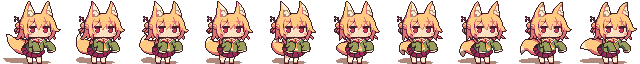
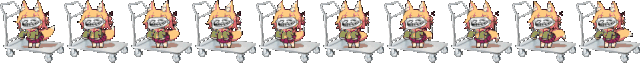
aa

diff --git a/source/main.c b/source/main.c
@@ -9,32 +9,28 @@
 #include "main.h"
 
 int HWButton = -1;
-struct shiggyData shiggy;
+struct ShiggyData shiggy;
 int frameCount = 10;
 int frameIndex = 0;
 signed int timerSeconds = -3;
 int theme = 1;
 AESNDPB* shigCompleteVoice;
 int timer = 0;
+unsigned int skinNum = 0;
 
 /**
  * handler for controls so my code is less shit lmao
  */
 void buttonHandler() {
     if ((WPAD_ButtonsHeld(0) & WPAD_BUTTON_A) || (PAD_ButtonsHeld(0) & PAD_BUTTON_A)) {
-        if (shiggy.hyperTimer == 0) shiggy.hyperTimer = 10;
+        if (shiggy.hyperTimer == 0) shiggy.hyperTimer = 9;
     }
     if ((WPAD_ButtonsDown(0)) || (PAD_ButtonsDown(0))) {
-        if ((WPAD_ButtonsDown(0) & WPAD_BUTTON_A) || (PAD_ButtonsDown(0) & PAD_BUTTON_A)) {
-            if (GRRLIB_PtInRect(536, 384, 64, 64, shiggy.x, shiggy.y)) {
-                ++theme;
-                theme %= 2;
-            }
-        }
     if ((WPAD_ButtonsDown(0) & WPAD_BUTTON_PLUS) || (PAD_ButtonsDown(0) & PAD_BUTTON_START)) {
         if ((WPAD_ButtonsHeld(0) & WPAD_BUTTON_B) || (PAD_ButtonsHeld(0) & PAD_BUTTON_Y)) {
-            ++shiggy.skinNum;
-            shiggy.skinNum %= SHIGGY_SKINS;
+            ++skinNum;
+            skinNum %= SKIN_AMOUNT;
+            shiggy.Skin = shiggySkins[skinNum];
             return;
         }
         shiggy.shigCount = 0;
@@ -43,8 +39,9 @@ void buttonHandler() {
     }
     if ((WPAD_ButtonsDown(0) & WPAD_BUTTON_MINUS) || (PAD_ButtonsDown(0) & PAD_BUTTON_B)) {
         if ((WPAD_ButtonsHeld(0) & WPAD_BUTTON_B) || (PAD_ButtonsHeld(0) & PAD_BUTTON_Y)) {
-            --shiggy.skinNum;
-            if ((signed)shiggy.skinNum < 0) shiggy.skinNum = SHIGGY_SKINS-1;
+            --skinNum;
+            if ((signed)skinNum < 0) skinNum = SKIN_AMOUNT-1;
+            shiggy.Skin = shiggySkins[skinNum];
             return;
         }
         shiggy.shigCount = 0;
@@ -56,20 +53,20 @@ void buttonHandler() {
     frameIndex %= frameCount;
     if (!frameIndex & ((timerSeconds >= 0) || (timerSeconds <= -5))) {
         shigCompleteVoice = AESND_AllocateVoice(VoiceCallBack);
-        if (shigCompleteVoice) switch (shiggy.skinNum) {
-                case 1:
+        if (shigCompleteVoice) switch (shiggy.Skin.sndNum) {
+                case SOUND_GLITCH:
                     AESND_PlayVoice(shigCompleteVoice, VOICE_STEREO16, concrete_glitch_raw, concrete_glitch_raw_size, 48000, 0, 0);
                     break;
-                case 2:
+                case SOUND_EXPLOD:
                     AESND_PlayVoice(shigCompleteVoice, VOICE_STEREO16, explod_raw, explod_raw_size, 48000, 0, 0);
                     break;
-                case 3:
+                case SOUND_LOWQUALITY:
                     AESND_PlayVoice(shigCompleteVoice, VOICE_STEREO16, concrete_lowquality_raw, concrete_lowquality_raw_size, 48000, 0, 0);
                     break;
-                case 4:
-                    AESND_PlayVoice(shigCompleteVoice, VOICE_STEREO16, concrete_reversed_raw, concrete_reversed_raw_size, 48000, 0, 0);
+                case SOUND_REVERSE:
+                    AESND_PlayVoice(shigCompleteVoice, VOICE_STEREO16, concrete_reverse_raw, concrete_reverse_raw_size, 48000, 0, 0);
                     break;
-                case 5:
+                case SOUND_TROLOLO:
                     AESND_PlayVoice(shigCompleteVoice, VOICE_STEREO16, yayayayay_raw, yayayayay_raw_size, 48000, 0, 0);
                     break;
                 default:
@@ -111,8 +108,9 @@ void WiimotePowerPressed(s32 chan) {
  */
 int main(int argc, char **argv) {
 // init video
-    GRRLIB_Init();
     init_textures();
+    modify_textures();
+    GRRLIB_Init();
 // init input
     WPAD_Init();
     PAD_Init();
@@ -128,10 +126,11 @@ int main(int argc, char **argv) {
     GRRMOD_Start();
 // the variable chunk (oooh! ahhh!)
     char str[38];
-    int texture = 0; // aaaaAAAAAHHH
+    // int texture = 0; // aaaaAAAAAHHH
     WPADData *wd;
     GRRLIB_ttfFont* font = GRRLIB_LoadTTF(font_ttf, font_ttf_size);
-    shiggy.x = shiggy.y = shiggy.angle = shiggy.skinNum = shiggy.shigCount = shiggy.hyperTimer = 0; // lmfao
+    shiggy.x = shiggy.y = shiggy.angle = shiggy.shigCount = shiggy.hyperTimer = 0; // lmfao
+    shiggy.Skin = shiggySkins[0];
 // main loop
     while (1) {
         timer++;
@@ -157,36 +156,12 @@ int main(int argc, char **argv) {
         if (PAD_ButtonsHeld(0) & PAD_TRIGGER_R) ++shiggy.angle;
         if (shiggy.hyperTimer) shiggy.hyperTimer--;
 
-        if (theme) {
-            GRRLIB_FillScreen(DARK_BG);
-        } else {
-            GRRLIB_FillScreen(LIGHT_BG);
-        }
-
         if (WPAD_ButtonsDown(0) & WPAD_BUTTON_HOME) {
             // break;
         } else if (WPAD_ButtonsHeld(0) || PAD_ButtonsHeld(0)) buttonHandler();
-
-        GRRLIB_texImg *themeButtonTex = themeButtonIndex[theme];
-        GRRLIB_SetAntiAliasing(shiggy.skinNum == 3);
-        switch (shiggy.skinNum) {
-            case 1:
-                texture = 1;
-                break;
-            case 2:
-                texture = 2;
-                break;
-            case 4:
-                texture = 3;
-                break;
-            case 5:
-                break;
-            default:
-                texture = 0;
-                break;
-        }
-        GRRLIB_DrawPart(shiggy.x+320, shiggy.y-(hyperYCoords[10 - shiggy.hyperTimer]), frameIndex*64, 0, 64, 64, shiggyTex[texture], shiggy.angle, 2, 2, GRRLIB_WHITE);
-        GRRLIB_SetMidHandle(shiggyTex[texture], true);
+        GRRLIB_SetAntiAliasing(shiggy.Skin.blurred);
+        GRRLIB_DrawPart(shiggy.x+320, shiggy.y-(hyperYCoords[10 - shiggy.hyperTimer]), frameIndex*64, 0, 64, 64, shiggyTex[shiggy.Skin.texNum], shiggy.angle, 2, 2, GRRLIB_WHITE);
+        GRRLIB_SetMidHandle(shiggyTex[shiggy.Skin.texNum], true);
         if (timerSeconds > TIMER_STATE_TIMEOVER) {
             double deciseconds = 10-((double)timer/60*10);
             if (deciseconds >= 10) deciseconds = 9;
@@ -196,14 +171,8 @@ int main(int argc, char **argv) {
         } else if (timerSeconds <= TIMER_STATE_GAMEOVER) {
             sprintf(str, "%u shigs", shiggy.shigCount);
         } else sprintf(str, "+/START: Start Timer, -/B: Infinite");
-        GRRLIB_SetAntiAliasing(shiggy.skinNum != 4);
-        if (theme) {
-            GRRLIB_DrawImg(536, 384, themeButtonTex, 0, 1, 1, DARK_FG);
-            GRRLIB_PrintfTTF(320-(GRRLIB_WidthTTF(font, str, 24)/2), 32, font, str, 24, DARK_FG);
-        } else {
-            GRRLIB_DrawImg(536, 384, themeButtonTex, 0, 1, 1, LIGHT_FG);
-            GRRLIB_PrintfTTF(320-(GRRLIB_WidthTTF(font, str, 24)/2), 32, font, str, 24, LIGHT_FG);
-        }
+        GRRLIB_SetAntiAliasing(false);
+        GRRLIB_PrintfTTF(320-(GRRLIB_WidthTTF(font, str, 24)/2), 32, font, str, 24, DARK_FG);
         GRRLIB_Render();
         // for (int i = 1; i < 20; i++) VIDEO_WaitVsync();
     }

diff --git a/source/main.h b/source/main.h
@@ -3,14 +3,11 @@
 #include "shiggy1_png.h"
 #include "shiggy2_png.h"
 #include "shiggy3_png.h"
-#include "shiggy4_png.h"
 #include "bz_pif_it.h"
 #include "font_ttf.h"
-#include "light_png.h"
-#include "dark_png.h"
 #include "concrete_raw.h"
 #include "concrete_lowquality_raw.h"
-#include "concrete_reversed_raw.h"
+#include "concrete_reverse_raw.h"
 #include "concrete_glitch_raw.h"
 #include "yayayayay_raw.h"
 #include "explod_raw.h"
@@ -18,15 +15,19 @@
 #define TIMER_STATE_GAMEOVER -4
 #define TIMER_STATE_TIMEOVER -1
 
-#define SHIGGY_SKINS 6
-#define DARK_BG 0x282828FF
-#define LIGHT_BG 0xF5EDCAFF
-#define DARK_FG 0xD4BE98FF
-#define LIGHT_FG 0x644735FF
-#define GRRLIB_WHITE 0xFFFFFFFF
+#define SOUND_DEFAULT    0
+#define SOUND_GLITCH     1
+#define SOUND_EXPLOD     2
+#define SOUND_LOWQUALITY 3
+#define SOUND_REVERSE    4
+#define SOUND_TROLOLO    5
 
-GRRLIB_texImg *themeButtonIndex[2];
-GRRLIB_texImg *shiggyTex[5];
+#define DARK_BG      0x282828FF
+#define DARK_FG      0xD4BE98FF
+#define GRRLIB_WHITE 0xFFFFFFFF
+#define SKIN_AMOUNT 6
+
+GRRLIB_texImg *shiggyTex[6];
 
 int hyperYCoords[10] = {
     0,
@@ -41,27 +42,47 @@ int hyperYCoords[10] = {
     10
 };
 
-struct shiggyData {
+struct ShiggySkin {
+    unsigned int texNum, sndNum;
+    bool blurred;
+    char *name[10];
+};
+
+struct ShiggyData {
     double x, y, angle;
-    unsigned int skinNum, shigCount, hyperTimer;
+    int shigCount;
+    unsigned int hyperTimer;
+    struct ShiggySkin Skin;
+};
+
+struct ShiggySkin shiggySkins[6] = {
+    {0, SOUND_DEFAULT,    false, false,     {"Shiggy"}},
+    {1, SOUND_GLITCH,     false, false,  {"Corrupted"}},
+    {2, SOUND_EXPLOD,     false, false, {"Shigsplode"}},
+    {5, SOUND_LOWQUALITY, true,  false,     {"Shoggy"}},
+    {3, SOUND_REVERSE,    false, false,     {"yggihS"}},
+    {4, SOUND_TROLOLO,    false, false,    {"Shiggey"}}
 };
 
 void init_textures() {
-    themeButtonIndex[0] = GRRLIB_LoadTexture(light_png);
-    themeButtonIndex[1] = GRRLIB_LoadTexture(dark_png);
-
     shiggyTex[0] = GRRLIB_LoadTexture(shiggy0_png);
     shiggyTex[1] = GRRLIB_LoadTexture(shiggy1_png);
     shiggyTex[2] = GRRLIB_LoadTexture(shiggy2_png);
-    shiggyTex[3] = GRRLIB_LoadTexture(shiggy3_png);
-    shiggyTex[4] = GRRLIB_LoadTexture(shiggy4_png);
+    shiggyTex[3] = GRRLIB_CreateEmptyTexture(shiggyTex[0]->w, shiggyTex[0]->h);
+    shiggyTex[4] = GRRLIB_LoadTexture(shiggy3_png);
+    shiggyTex[5] = GRRLIB_CreateEmptyTexture(shiggyTex[0]->w, shiggyTex[0]->h);
+    GRRLIB_BMFX_FlipH(shiggyTex[0], shiggyTex[3]);
+    GRRLIB_FlushTex(shiggyTex[3]);
+    GRRLIB_BMFX_Blur(shiggyTex[0], shiggyTex[5], 1);
+    GRRLIB_FlushTex(shiggyTex[5]);
+}
+
+void modify_textures() {
+
 }
 
 void free_textures() {
-    for (int i = 0; i < 2; i++) {
-        GRRLIB_FreeTexture(themeButtonIndex[i]);
-    }
-    for (int i = 0; i < 3; i++) {
+    for (int i = 0; i <= 4; i++) {
         GRRLIB_FreeTexture(shiggyTex[i]);
     }
 }
